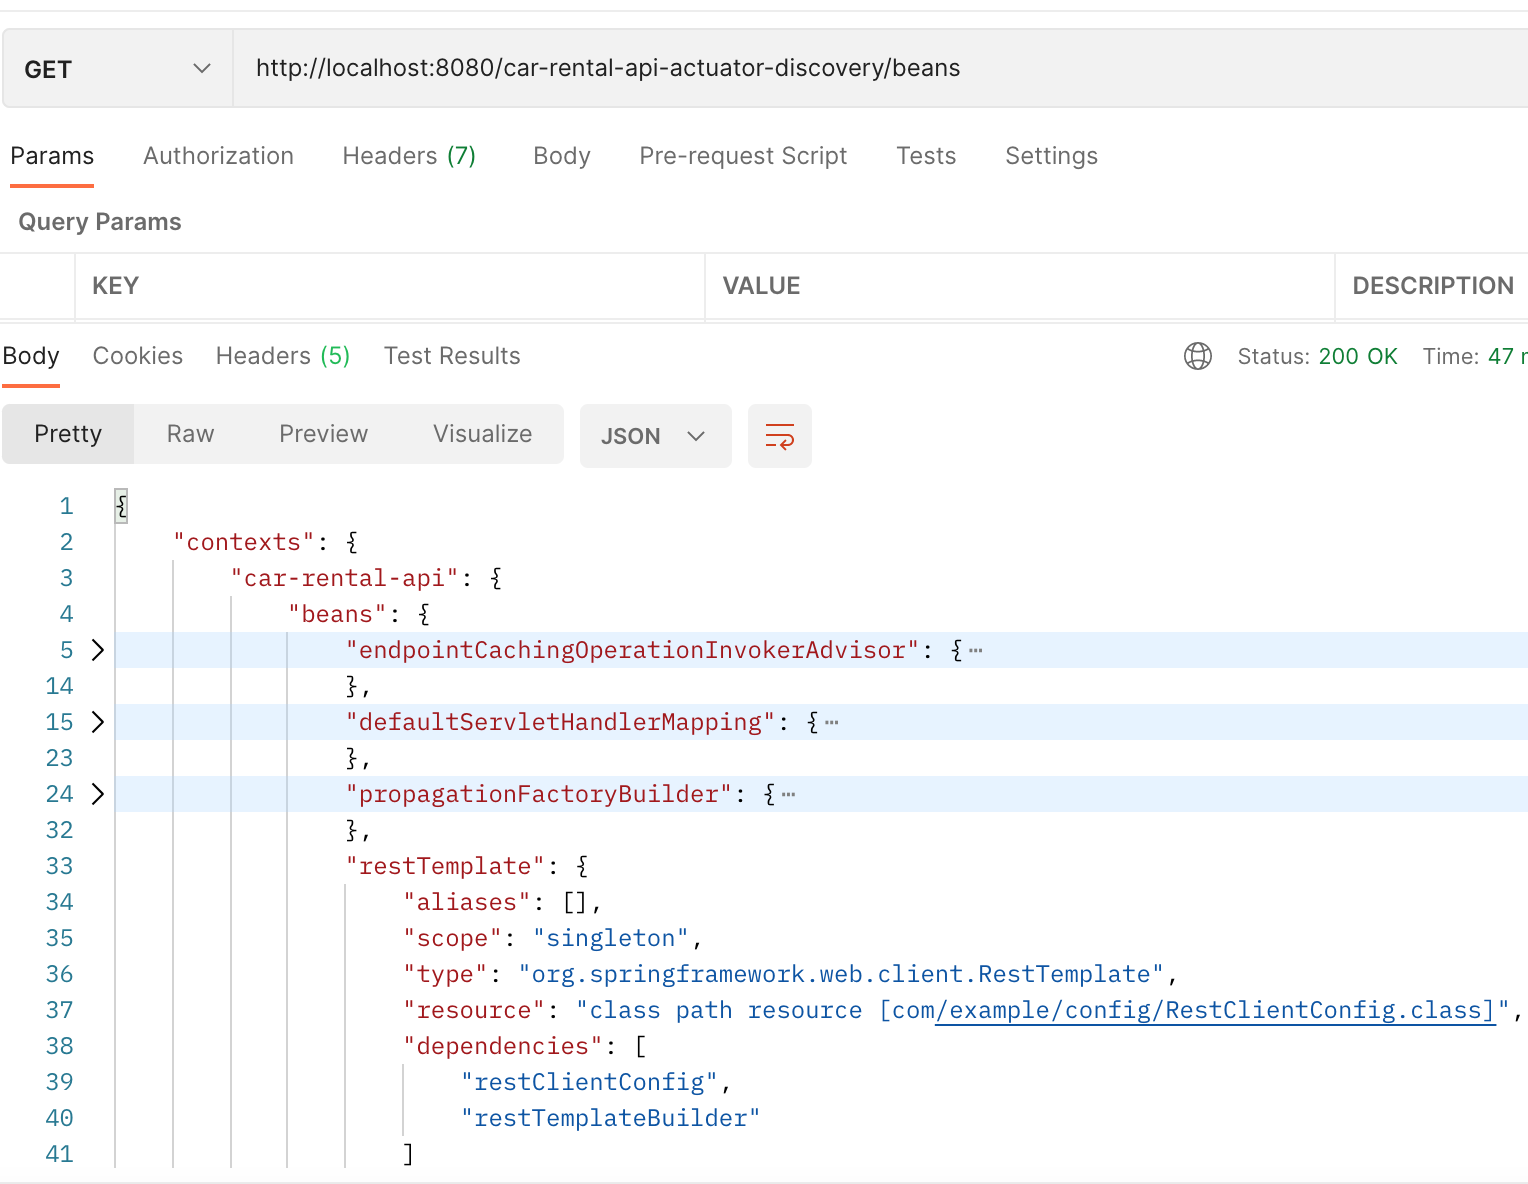
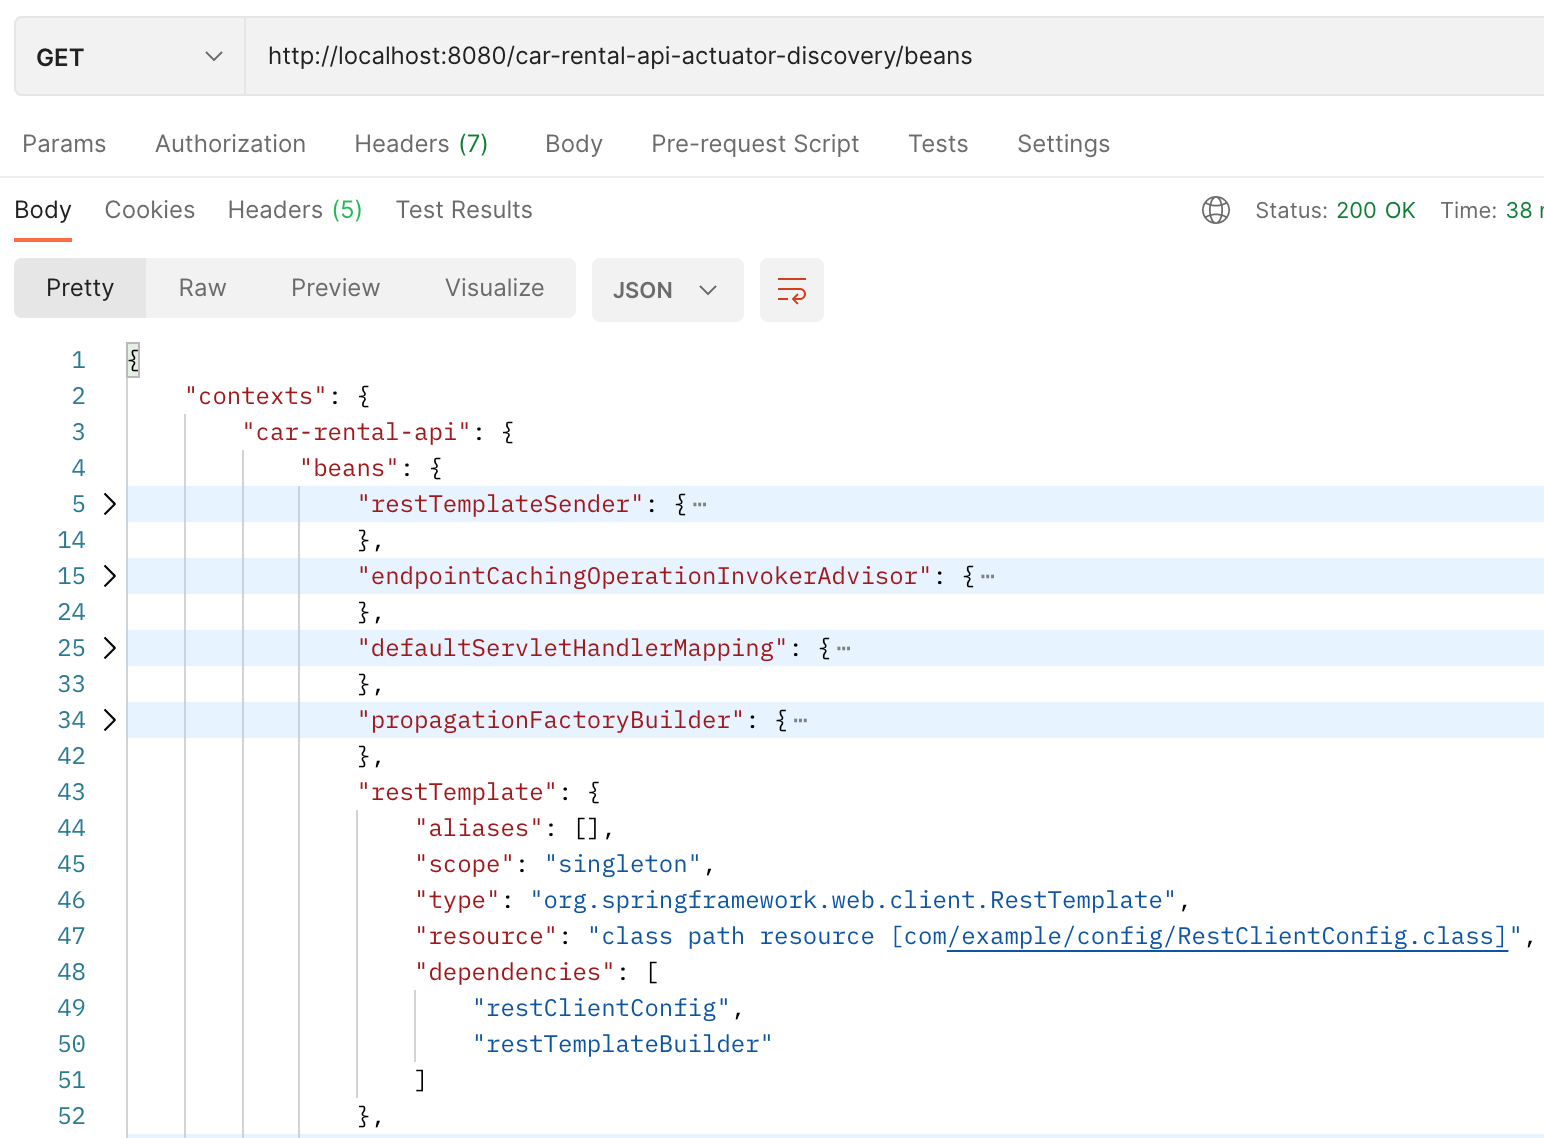
Updated readme, added required dependencies, updated images

diff --git a/README.md b/README.md
@@ -34,10 +34,10 @@ It uses HTTP endpoints or JMX beans to enable us to interact with it.
 Spring Boot Actuator has been available since April 2014, together with the first Spring Boot release. With the release 
 of Spring Boot 2, Actuator has been redesigned, and new exciting endpoints were added, this makes a breaking changes: 
 
-* 2.x Actuator become technology-agnostic by using [Micrometer Observation](https://micrometer.io/docs/observation),
-Actuator 1.x is tied to MVC and, therefore, to the Servlet API. In 2.x Actuator the in-house metrics were replaced with 
-Micrometer support, so we can expect breaking changes. If our application were using metric services such as GaugeService
-or CounterService, they would no longer be available. We will interact with Micrometer directly.
+* 2.x Actuator become technology-agnostic. Actuator 1.x is tied to MVC and, therefore, to the Servlet API. In 2.x Actuator
+the in-house metrics were replaced with Micrometer support, so we can expect breaking changes. If our application were 
+using metric services such as GaugeService or CounterService, they would no longer be available. We will interact with 
+Micrometer directly.
 
 * 2.x Actuator security model is merged with the application one, so the security can be configured in one 
 place with main app.
@@ -84,10 +84,11 @@ Here is what `/health` endpoint returns in response when RandomHealthIndicator i
 
 ##### Actuator: Metrics | Micrometer
 
-Spring Boot Actuator provides dependency management and auto-configuration for Micrometer: [Micrometer Observation](https://micrometer.io/docs/observation).
+Spring Boot Actuator provides dependency management and auto-configuration for [Micrometer](https://micrometer.io/), an application metrics facade
+that supports numerous monitoring systems: Datadog, Dynatrace, Graphite, Humio, New Relic, OpenTelemetry, Prometheus, Wavefront.
 
-We can use Actuator to get a possible metric names from the `/metrics` endpoint. All the possible metrics are listed here.
-<p align="center"><img src="img/actuator-metrics-jvm-threads-endpoint-response.png" width="600px"/></p>
+We can use Actuator to get a possible metric names from the `/metrics` endpoint:
+<p align="center"><img src="img/actuator-metrics-endpoint-response.png" width="600px"/></p>
 
 ##### Micrometer: Meter and MeterRegistry
 
@@ -142,16 +143,26 @@ Supported Tracers:
 * [OpenZipkin Brave](https://github.com/openzipkin/brave) - [Zipkin](https://zipkin.io/) / [Wavefront](https://docs.wavefront.com/) by dependency `io.micrometer:micrometer-tracing-bridge-brave`
 * [OpenTracing Specification](https://opentracing.io/) - is considered to be deprecated/archived, so projects smoothly migrate to OpenTelemetry `io.micrometer:micrometer-tracing-bridge-otel`
 
-We will be using Zipkin Brave tracer. Bridge dependency gives us the tracer for programmatic/manual tracing, so we 
-will be able to use Spans programmatically. In addition, the bridge creates a default preconfigured beans in Spring 
-application context so that we will use the tracer by convention.
+Bridge dependency gives us the Tracer for programmatic/manual tracing, so we will be able to use Spans programmatically.
+In addition, the bridge creates a default preconfigured beans in Spring application context so that we will use the tracer
+by convention.
 
-Micrometer uses the concept of reporters to export traces via HTTP/RPC to some destination trace collector:
+We will be using `Zipkin` Tracer to create traces.
+
+Micrometer uses the concept of Reporter to export traces via HTTP/RPC to some destination trace collector:
 * Wavefront reporter by dependency `io.micrometer:micrometer-tracing-reporter-wavefront`
 * OpenZipkin Zipkin Brave reporter by dependency `io.zipkin.reporter2:zipkin-reporter-brave`
 * OpenZipkin Zipkin exporter with OpenTelemetry by dependency `io.opentelemetry:opentelemetry-exporter-zipkin`
 * OpenZipkin URL sender by dependency `io.zipkin.reporter2:zipkin-sender-urlconnection`
-We will be using Zipkin Brave reporter.
+
+We will be using `OpenZipkin Zipkin Brave` Reporter to export traces.
+
+Having chosen a tracer and reporter, we need to decide what's the destination to report and collect traces. The most famous 
+trace collectors are: [Jaeger](https://www.jaegertracing.io/), [Zipkin](https://zipkin.io/), and [Grafana Tempo](https://grafana.com/oss/tempo/).
+Here is a comparison guide [Jaeger vs Zipkin vs Grafana Tempo](https://codersociety.com/blog/articles/jaeger-vs-zipkin-vs-tempo) 
+that will help us to get the right collector.
+
+For the sake of simplicity we will be using `Grafana Tempo`.
 
 ##### Micrometer: Instrumentation using Observation API
 DRAFT
